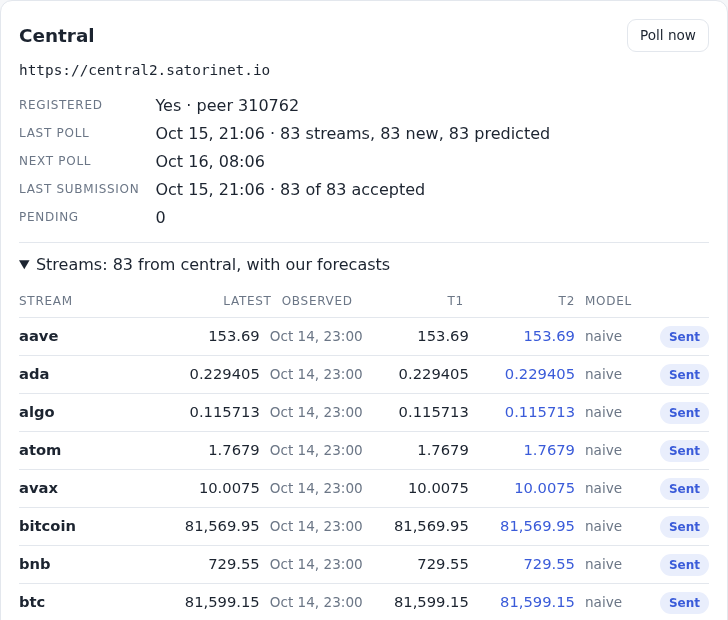
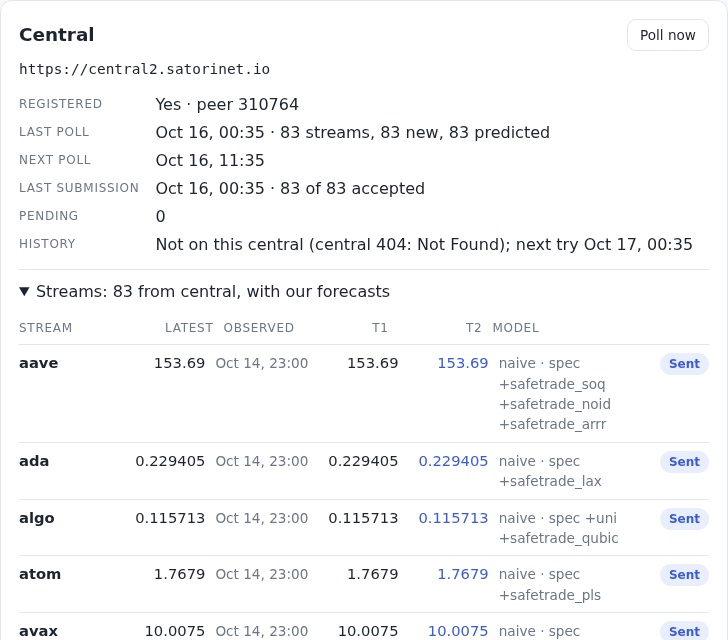
db, ui: a stream's history goes in as one statement (times and values as comma-joined text, split and cast in SQL; INSERT's Count instead of RETURNING): 205 → 20 ms a stream, the first poll with 83 streams' history 17 → 10 s; the Model column wraps the spec's companions instead of cutting them. Live

diff --git a/src/style.css b/src/style.css
@@ -127,13 +127,13 @@ details.streams > summary { color: var(--text); }
 .srows { margin-top: 8px; }
 /* A table row: central's streams (.srow) and the subscribed relay streams (.nrow). */
 .row { display: grid; gap: 10px; align-items: baseline; padding: 7px 0; border-top: 1px solid var(--line); font-size: 0.92rem; }
-.srow { grid-template-columns: minmax(0, 1.4fr) 1fr max-content 1fr 1fr minmax(0, 1.5fr) 70px; }
+.srow { grid-template-columns: minmax(0, 1.2fr) 1fr max-content 1fr 1fr minmax(0, 1.7fr) 64px; }
 .nrow { grid-template-columns: minmax(0, 2fr) minmax(0, 1fr) max-content minmax(0, 1fr) 36px 52px max-content; }
 .row.head { border-top: 0; font-size: 0.75rem; text-transform: uppercase; letter-spacing: 0.06em; color: var(--muted); }
 .row .sname { font-weight: 550; overflow: hidden; text-overflow: ellipsis; white-space: nowrap; }
 .row .num { text-align: right; font-variant-numeric: tabular-nums; overflow-wrap: anywhere; }
 .row .badge { justify-self: end; margin: 0; }
-.row .model { color: var(--muted); font-size: 0.85rem; overflow: hidden; text-overflow: ellipsis; white-space: nowrap; }
+.row .model { color: var(--muted); font-size: 0.85rem; overflow-wrap: anywhere; } /* the spec's companions, wrapped at spaces */
 .row > .muted.small { white-space: nowrap; }
 .row > :last-child { justify-self: end; }
 

diff --git a/src/db/index.js b/src/db/index.js
@@ -143,10 +143,12 @@ export async function openDb(conn, closeDb = async () => conn.close()) {
       let added = 0;
       await run('BEGIN TRANSACTION');
       try {
-        for (let i = 0; i < keep.length; i += 250) {
-          const chunk = keep.slice(i, i + 250);
-          added += (await rows(`INSERT OR IGNORE INTO observations VALUES ${chunk.map(() => `(?, ?, ${D})`).join(', ')} RETURNING ts`,
-            ...chunk.flatMap((o) => [uuid, o.ts, dbl(o.value)]))).length;
+        if (keep.length) {
+          // one statement, times and values as comma-joined text (exact doubles, see dbl), split in SQL
+          // (INSERT's Count is the rows inserted, the ignored ones not counted; RETURNING made it 3× slower)
+          [{ Count: added }] = await rows(`INSERT OR IGNORE INTO observations SELECT ?, t::BIGINT, v::DOUBLE
+            FROM (SELECT unnest(string_split(?, ',')) AS t, unnest(string_split(?, ',')) AS v)`,
+          uuid, keep.map((o) => o.ts).join(','), keep.map((o) => dbl(o.value)).join(','));
         }
         await run('UPDATE streams SET history_at = ? WHERE uuid = ?', at, uuid);
         await run('COMMIT');

diff --git a/docs/design/engine.md b/docs/design/engine.md
@@ -472,14 +472,29 @@ From Satori Lite:
   forecasts each with `bvar`, with the same specs, scores and numbers as node
   running `runModels` with the identity's pubkey; the Model column shows
   "bvar · +eth +gold" and the History line "3 streams, 1,800 rows".
-- Live, on the dev server against central2, in a fresh profile with throwaway
-  keys: Poll now stored 83 streams and central accepted 83 of 83 predictions.
-  Every stream was `naive`, with t1 = t2 = its latest value: a new neuron has
-  one observation per stream. `bar1` starts once a stream has an observation
-  in 8 back-to-back 12 h buckets, about 4 days of polls every 11 h. A daily
-  stream, or a neuron that polls once a day, stays `naive`.
+- Live, on the dev server against central2 (2026-10-16), in a fresh profile
+  with throwaway keys: Poll now stored 83 streams; each got its own spec,
+  drawn from the identity (31 with 1 companion, 28 with 2, 24 with 3; a
+  second fresh profile drew others); central accepted 83 of 83 predictions.
+  Central2 has no history route yet: the first 4 calls (in flight together)
+  answered 404, the rest were not asked, and the History line says "Not on
+  this central (central 404: Not Found); next try Oct 17, 00:35". So every
+  stream was `naive` (one observation each) and its Model column reads
+  "naive · spec +safetrade_soq +safetrade_noid +safetrade_arrr", the spec
+  waiting for aligned rows. `engine_ms` 22.
 
-![Home after Poll now: the Model column](../screenshots/engine.png)
+![Home after Poll now on central2: each stream's spec, waiting for history](../screenshots/engine.png)
+
+- The same, with central2's history route and predictions batch answered in
+  the browser by a script (Playwright routes: synthetic hourly random walks,
+  1,000 rows per stream ending an hour before its latest observation; the
+  predictions answered there, none sent to central2): the first Poll now
+  fetched 83 streams' history (83,000 rows) and forecast all 83 with `bvar`.
+  **The engine took 204–209 ms in Chrome for the 83 targets** (`engine_ms`);
+  the whole poll 10 s, once, almost all of it the 83 history fetches and
+  inserts (17 s before the insert became one statement per stream).
+
+![The same app once central serves history: bvar with each stream's companions (synthetic history, a stub answer for the batch)](../screenshots/engine-history.png)
 
 ## Measured
 
@@ -570,10 +585,12 @@ it on a synthetic leader. Central's streams can't be backtested here until
 its history route is live.
 
 **CPU** (`runModels`, the engine of one poll, on this 8-core box): 21
-targets on 400 days of polls, 45 ms; 83 targets with 1,000 hourly rows each
-and then a year of polls, 0.3–0.6 s in node with two backtests running
-alongside. It runs on the main thread once per poll; see the live check for
-the browser.
+targets on 400 days of polls, 45 ms in node; 83 targets with 1,000 hourly
+rows each, **~205 ms in Chrome** (the live check above), and 0.3–0.6 s in
+node with a year of polls on top and two backtests running alongside. It
+runs on the main thread once per poll, well under a second, so it stays
+there. Reading the 83 histories (83,000 rows) takes ~0.6 s, in DuckDB's
+worker.
 
 Not measured here: the research brief's simulation of time features
 (1.4–2.5× persistence's error with few rows) was not re-run.

diff --git a/docs/design/storage.md b/docs/design/storage.md
@@ -100,4 +100,7 @@ read about 1 number in 12 one ulp off (measured: 158 of 2,000 observations,
 34 of 300 predictions). A stored t2 could then print other digits than the
 ones hashed when the prediction was made. Every DOUBLE is therefore bound as
 text, `CAST(? AS DOUBLE)` with the number's shortest JS text, which DuckDB
-parses back exactly (tested bit for bit).
+parses back exactly (tested bit for bit). A stream's history (up to 1,000
+rows) goes in one statement: its times and values as two comma-joined text
+parameters, split and cast in SQL (~20 ms a stream; 200 ms as one row per
+parameter triple).
